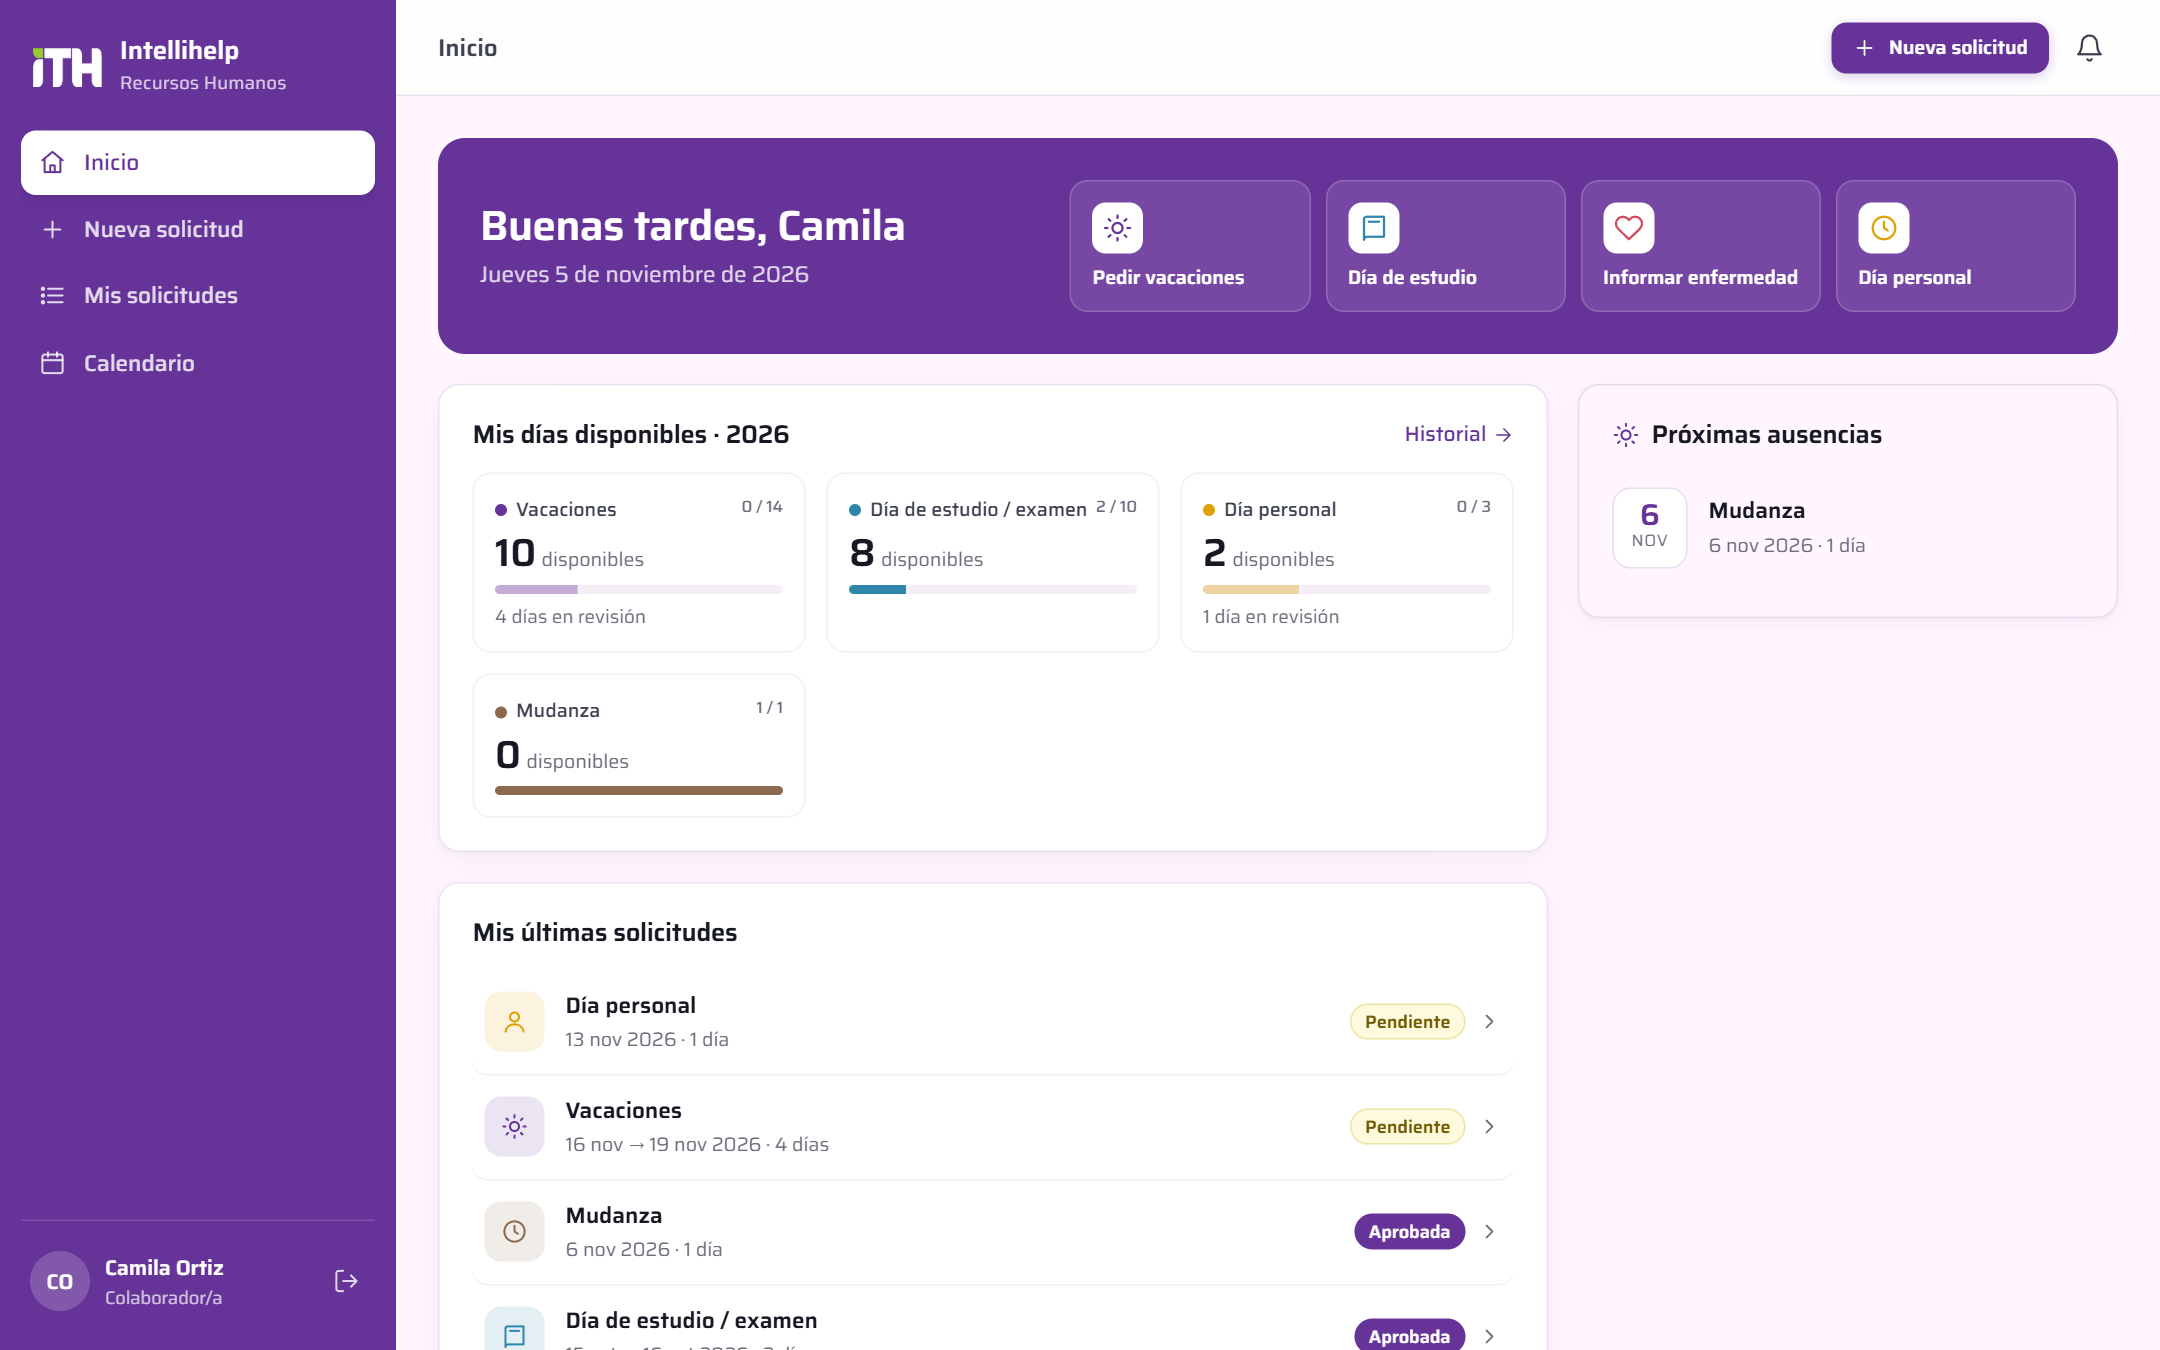
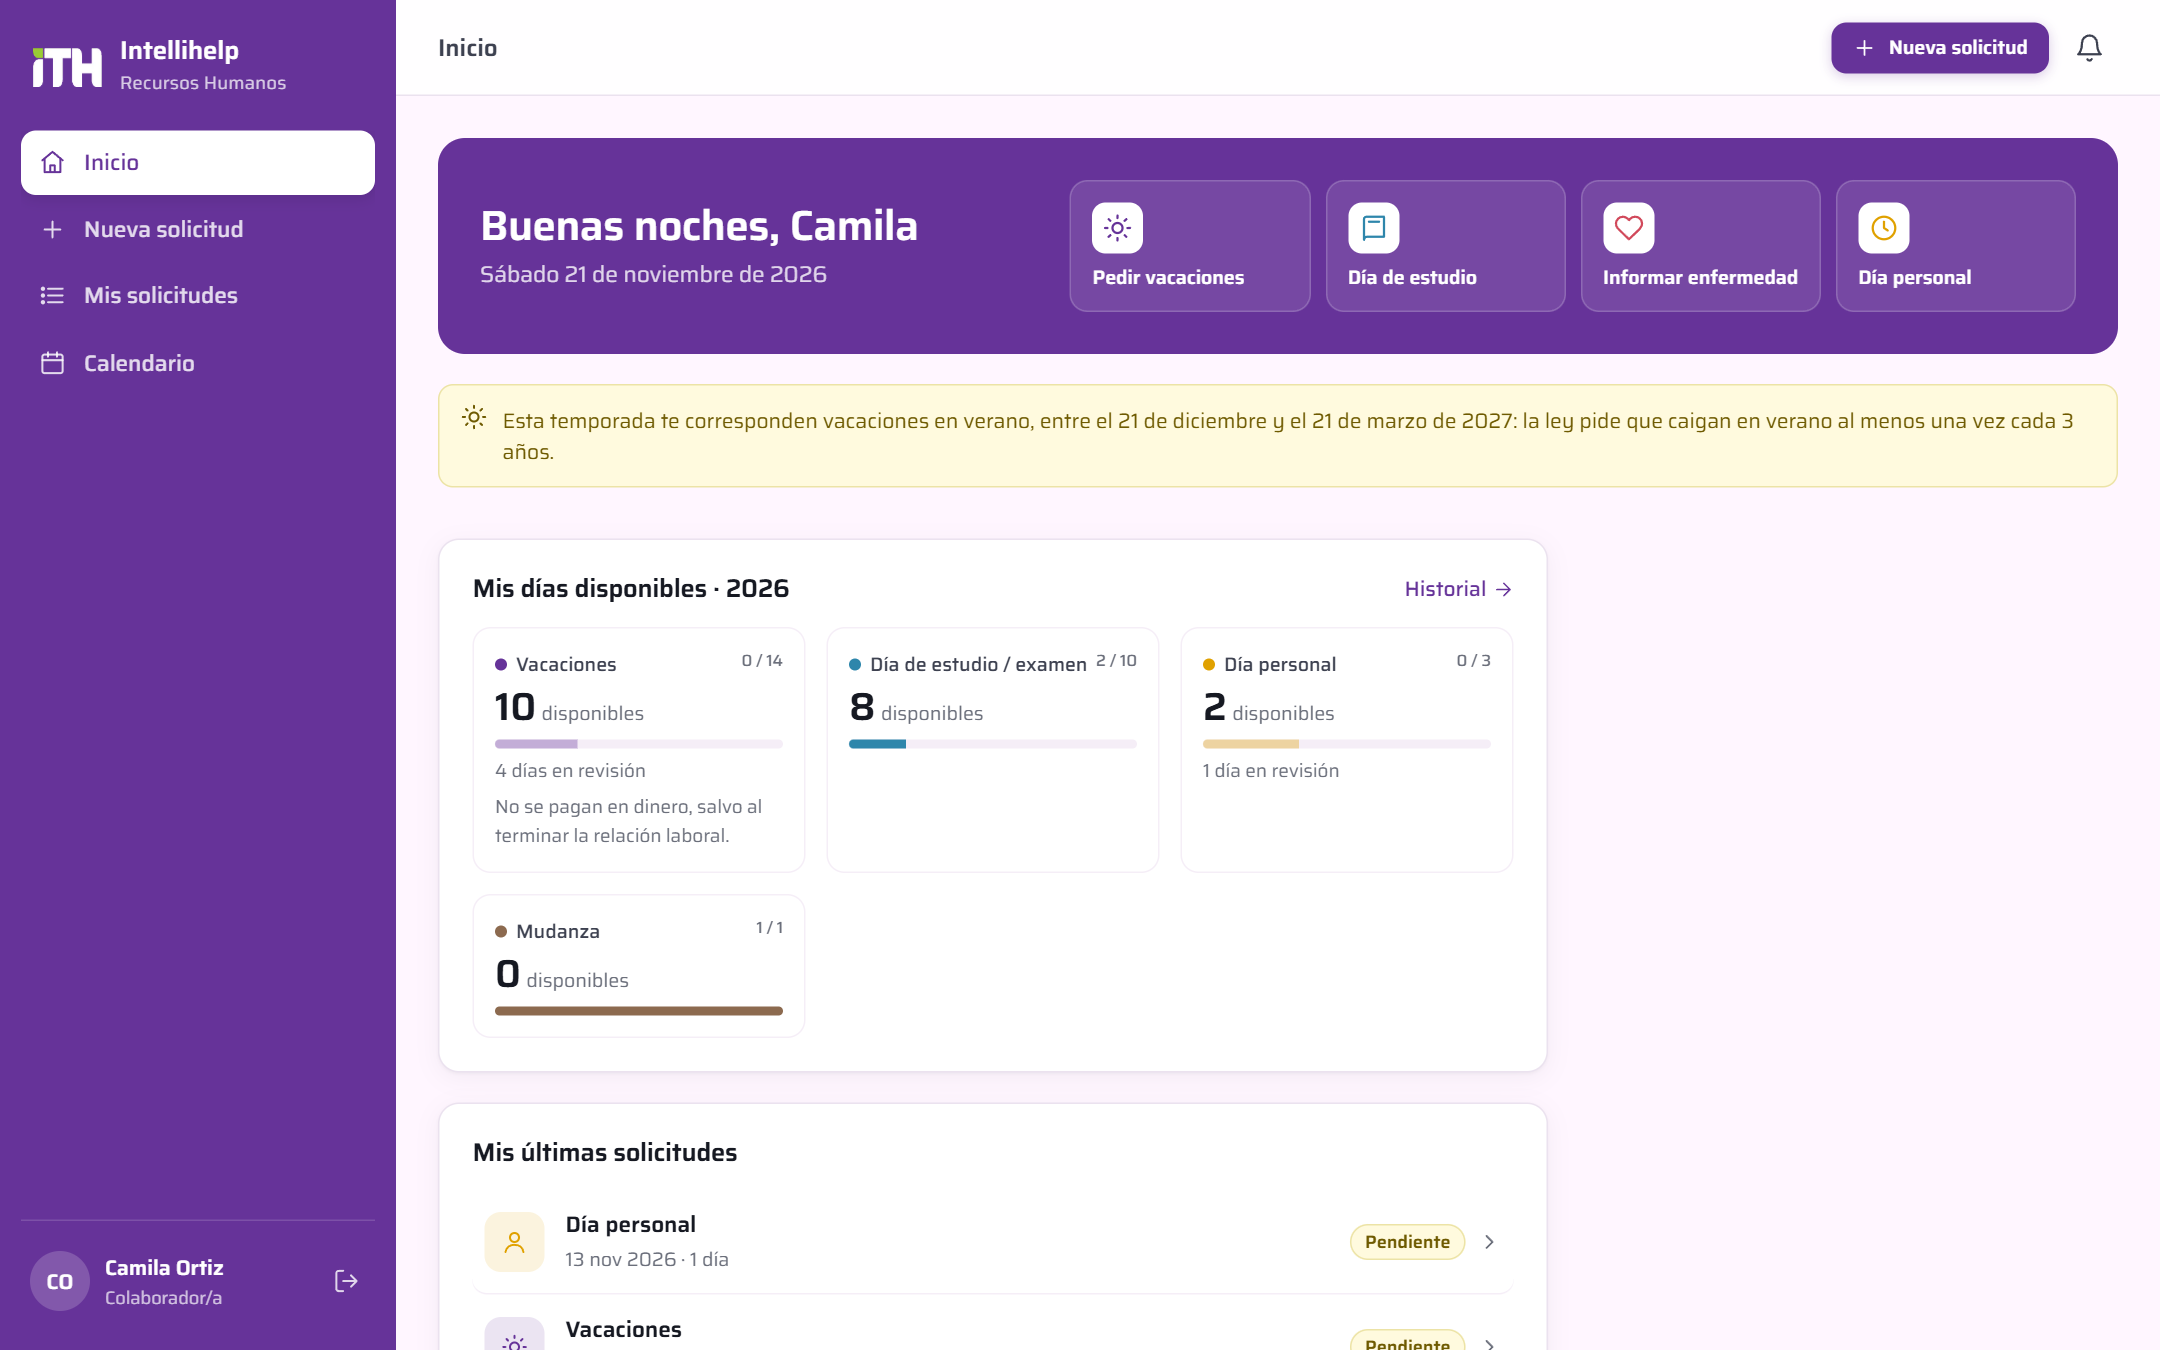
Verano: cuenta si al menos la mitad de las vacaciones cae en la temporada; documentación y capturas de las reglas de la LCT

diff --git a/app/lib/leave.php b/app/lib/leave.php
@@ -340,7 +340,22 @@ function overlaps_summer(string $from, string $to, int $season): bool
 }
 
 /**
- * Temporadas de verano en las que la persona tuvo (o tiene autorizadas o pedidas) vacaciones.
+ * Indica si unas vacaciones se toman en la temporada de verano indicada: al menos la mitad de
+ * sus días tiene que caer entre el 21 de diciembre y el 21 de marzo.
+ */
+function in_summer(string $from, string $to, int $season): bool
+{
+    if (!overlaps_summer($from, $to, $season)) {
+        return false;
+    }
+    $inside = count_days(max($from, "$season-12-21"), min($to, ($season + 1) . '-03-21'), 'corridos');
+
+    return $inside * 2 >= count_days($from, $to, 'corridos');
+}
+
+/**
+ * Temporadas de verano en las que la persona tuvo (o tiene autorizadas o pedidas) vacaciones,
+ * con al menos la mitad de los días en verano.
  *
  * Suma la última temporada que RRHH registró a mano, para los veranos anteriores al portal.
  *
@@ -355,7 +370,7 @@ function summer_seasons_taken(array $user): array
     foreach (rows("SELECT r.start_date, r.end_date FROM leave_requests r JOIN leave_types t ON t.id = r.type_id
         WHERE r.user_id = ? AND t.uses_vacation_balance = 1 AND r.status IN ('approved','pending')", [$user['id']]) as $r) {
         for ($s = (int) substr($r['start_date'], 0, 4) - 1; $s <= (int) substr($r['end_date'], 0, 4); $s++) {
-            if (overlaps_summer($r['start_date'], $r['end_date'], $s)) {
+            if (in_summer($r['start_date'], $r['end_date'], $s)) {
                 $seasons[$s] = true;
             }
         }
@@ -704,7 +719,7 @@ function vacation_legal_checks(array $user, string $from, string $to, bool $byHr
         $warnings[] = 'Las vacaciones se otorgan entre el 1 de octubre y el 30 de abril; fuera de ese período se pueden tomar de común acuerdo, y al autorizarlas queda registrado ese acuerdo (art. 154 de la LCT).';
     }
     $season = current_summer_season();
-    if (summer_due($user, $season) && !overlaps_summer($from, $to, $season) && $from <= ($season + 1) . '-04-30') {
+    if (summer_due($user, $season) && !in_summer($from, $to, $season) && $from <= ($season + 1) . '-04-30') {
         $warnings[] = 'Esta temporada corresponden vacaciones en verano (entre el 21 de diciembre y el 21 de marzo de ' . ($season + 1)
             . '): la ley pide que caigan en verano al menos una vez cada tres años (art. 154 de la LCT).';
     }

diff --git a/README.md b/README.md
@@ -80,21 +80,28 @@ Cada solicitud muestra su **seguimiento por etapas** (solicitada, autorización,
 - Las vacaciones empiezan el lunes o, si es feriado, el siguiente día hábil (LCT art. 151). Los feriados del inicio no cuentan, aunque se elijan como primer día, y se cuentan 7 días corridos desde el primer día hábil (art. 154): con el lunes feriado van de martes a lunes.
 - Una solicitud puede cruzar de diciembre a enero; los días se imputan al año en que empieza.
 
-**Vacaciones según la LCT.**
-- **Aviso (art. 154):** la fecha de inicio se notifica con 30 días de anticipación, o 60 para quien está en el convenio de Comercio (CCT 130/75), que se indica en la ficha de cada persona según su puesto. El calendario arranca en esa fecha. RRHH puede cargarlas con menos anticipación, con advertencia, y si se autorizan con menos margen queda registrado en el historial.
-- **Período (art. 154):** se otorgan entre el 1 de octubre y el 30 de abril. Fuera de ese período se avisa que es de común acuerdo, y la autorización lo registra.
-- **Verano cada 3 años (art. 154):** el portal detecta a quién le corresponden vacaciones en verano (del 21/12 al 21/3) porque no las tuvo en los dos veranos anteriores. Se lo avisa a la persona al pedirlas y en su inicio, y RRHH ve la lista en su panel. Los veranos anteriores al portal se cargan en la ficha.
-- **Menos de medio año (art. 153):** quien ingresó en el año y no llega a la mitad de los días hábiles tiene un día cada 20 días hábiles trabajados.
-- **Acumulación (art. 164):** RRHH registra en la ficha el acuerdo para pasar hasta un tercio de las vacaciones al año siguiente, y esos días se suman a los disponibles del año próximo.
-- **Enfermedad durante las vacaciones:** se puede informar aunque la persona esté de vacaciones. Las vacaciones terminan el día anterior y los días restantes quedan para reprogramar, sin completar la semana, hasta el 30 de abril siguiente. Se avisa a la persona, a quien autoriza y a RRHH.
-- **Pago (arts. 156 y 162):** las vacaciones no se pagan en dinero. Al cargar la fecha de egreso, la ficha calcula los días a liquidar: el proporcional del año y, si el egreso es antes del 31 de mayo, los no gozados del año anterior.
-
 Los pedidos fuera del período habitual, como días sueltos, una semana y unos días o un inicio a mitad de semana, se pueden cargar como excepción con una doble confirmación. La primera pregunta «¿Estás seguro/a?». La segunda pide comunicarse antes con quienes autorizan las excepciones y muestra su teléfono, WhatsApp y correo. La solicitud queda marcada y quien autoriza decide si computa solo esos días o la semana completa.
 
 <table>
   <tr>
     <td width="50%"><img src="docs/screenshots/excepcion-paso1.png" alt="Confirmación de vacaciones fuera del período habitual"></td>
     <td width="50%"><img src="docs/screenshots/excepcion-paso2.png" alt="Contactos para acordar la excepción"></td>
+  </tr>
+</table>
+
+**Vacaciones según la LCT.**
+- **Aviso (art. 154):** la fecha de inicio se notifica con 30 días de anticipación, o 60 para quien está en el convenio de Comercio (CCT 130/75), que se indica en la ficha de cada persona según su puesto. El calendario arranca en esa fecha. RRHH puede cargarlas con menos anticipación, con advertencia, y si se autorizan con menos margen queda registrado en el historial.
+- **Período (art. 154):** se otorgan entre el 1 de octubre y el 30 de abril. Fuera de ese período se avisa que es de común acuerdo, y la autorización lo registra.
+- **Verano cada 3 años (art. 154):** el portal detecta a quién le corresponden vacaciones en verano (del 21/12 al 21/3) porque no las tuvo en los dos veranos anteriores. Unas vacaciones cuentan como de verano si al menos la mitad de sus días cae en esa temporada, estén autorizadas o pendientes. Se lo avisa a la persona al pedirlas y en su inicio, y RRHH ve la lista en su panel. Los veranos anteriores al portal se cargan en la ficha.
+- **Menos de medio año (art. 153):** quien ingresó en el año y no llega a la mitad de los días hábiles tiene un día cada 20 días hábiles trabajados.
+- **Acumulación (art. 164):** RRHH registra en la ficha el acuerdo para pasar hasta un tercio de las vacaciones al año siguiente, y esos días se suman a los disponibles del año próximo.
+- **Enfermedad durante las vacaciones:** se puede informar aunque la persona esté de vacaciones. Las vacaciones terminan el día anterior y los días restantes quedan para reprogramar, sin completar la semana, hasta el 30 de abril siguiente. Se avisa a la persona, a quien autoriza y a RRHH.
+- **Pago (arts. 156 y 162):** las vacaciones no se pagan en dinero. Al cargar la fecha de egreso, la ficha calcula los días a liquidar: el proporcional del año y, si el egreso es antes del 31 de mayo, los no gozados del año anterior.
+
+<table>
+  <tr>
+    <td width="50%"><b>Ficha: vacaciones según la ley</b><br><img src="docs/screenshots/ficha-vacaciones-ley.png" alt="Acumulación por acuerdo y liquidación por egreso en la ficha"></td>
+    <td width="50%"><b>Vacaciones en verano (RRHH)</b><br><img src="docs/screenshots/verano-rrhh.png" alt="Personas a las que les corresponden vacaciones en verano"></td>
   </tr>
 </table>
 
@@ -175,7 +182,7 @@ Cada persona agrega sus calendarios de licencias en un clic: uno con las **autor
 - Carga de licencias en nombre de un colaborador (con aprobación directa opcional).
 
 ### Administración
-- Alta de **personas** con rol, responsable directo, área, empresa, fecha de ingreso y días de vacaciones manuales opcionales.
+- Alta de **personas** con rol, responsable directo, área, empresa, fecha de ingreso y egreso, convenio colectivo, último verano con vacaciones y días de vacaciones manuales opcionales. La ficha registra los acuerdos de acumulación y calcula las vacaciones a liquidar al egreso.
 - **Autoregistro** de colaboradores: los correos del dominio corporativo se activan solos; los de **personal tercerizado** quedan pendientes de aprobación por RRHH.
 - Cuentas sin confirmar: **reenvío del correo de confirmación** (también desde «¿La olvidaste?»), habilitación con contraseña temporal y eliminación de registros duplicados o con el correo mal escrito.
 - **Tipos de licencia** configurables: autorización, documentación obligatoria y su plazo de entrega, topes, forma de conteo, regla del fin de semana, descuento de vacaciones y color.
